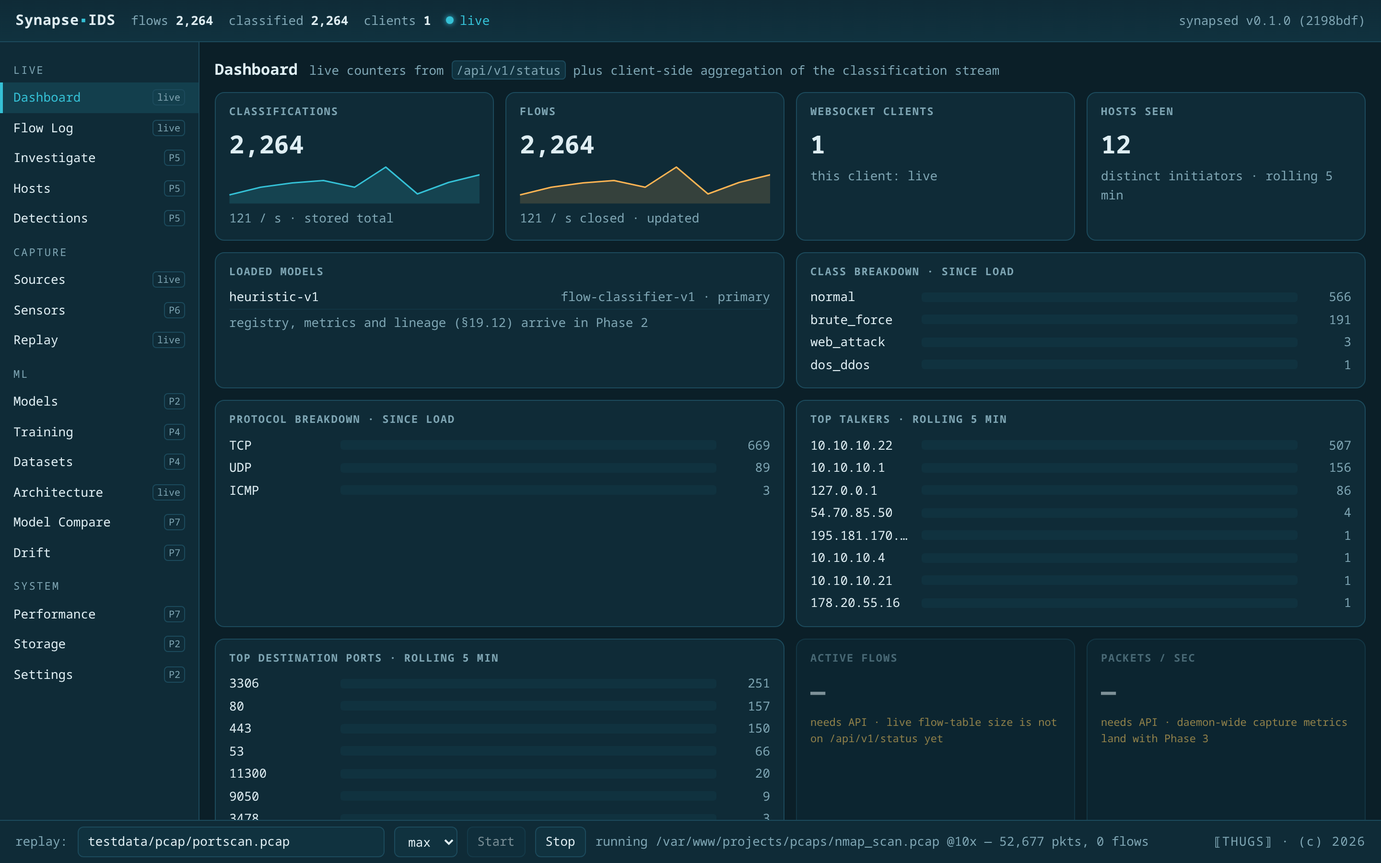
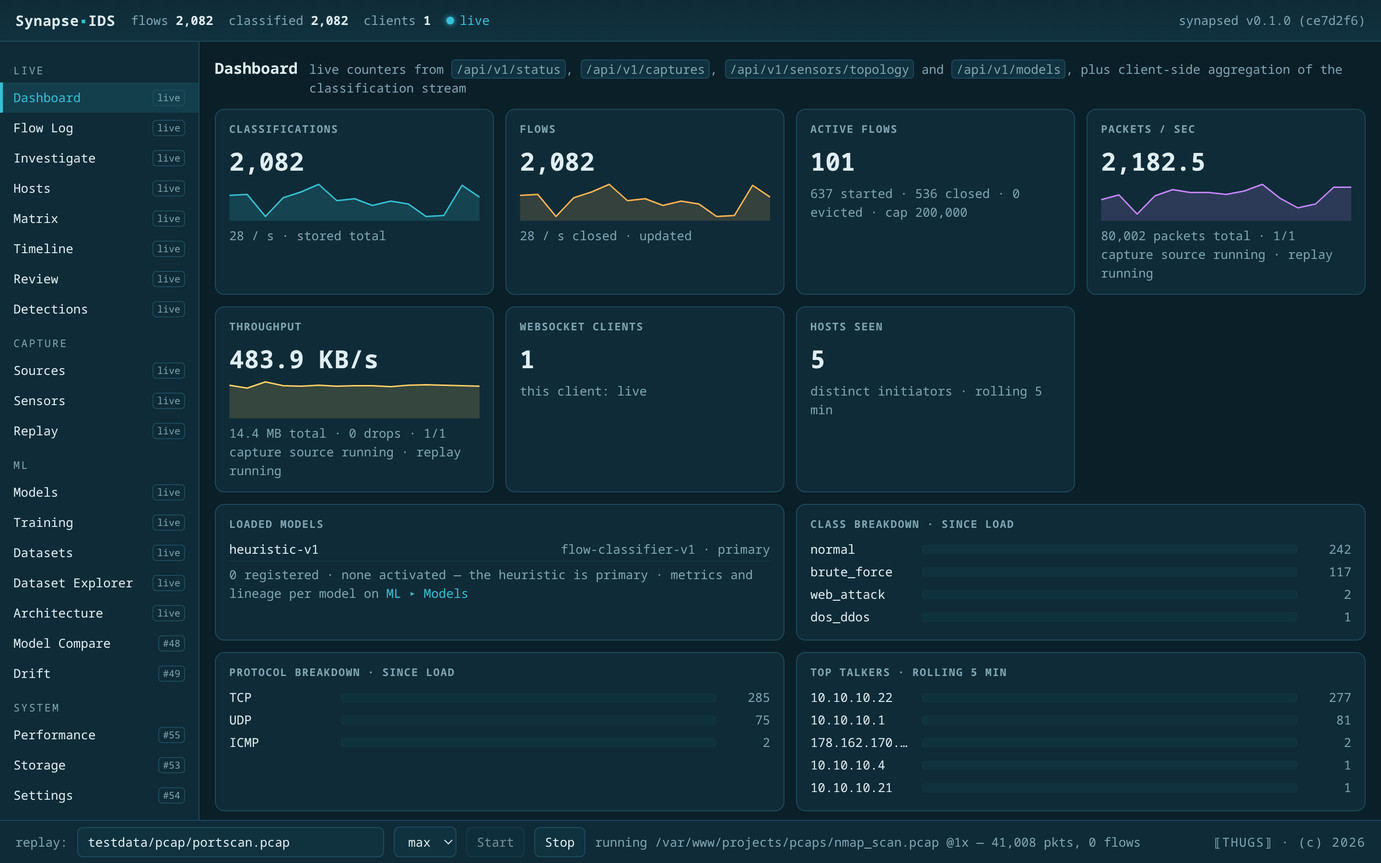
docs: Dashboard/Detections behaviour, CHANGELOG, and a real dashboard screenshot
CHANGELOG under [Unreleased]: the Detections view and the SPA test runner under
Added, the five rewired cards and the placeholder relabelling under Changed.

docs/architecture.md: StreamProvider's single 1 Hz allSettled over status +
captures + topology; the rate-derivation rules from lib/rates.ts; the Dashboard
ingest cards and why Throughput excludes a replay; how Detections degrades on a
404; and the two gap-table rows for Detections and the remaining §19 views, now
citing leaf issues instead of closed epics.

assets/screenshots/webui-dashboard.png is regenerated from a running daemon. The
old one is the exact artefact #118 describes — it shows "needs API · live
flow-table size is not on /api/v1/status yet", "daemon-wide capture metrics land
with Phase 3", "registry, metrics and lineage arrive in Phase 2" and P2/P4/P5/P6
sidebar tags. The new one shows Active flows 101, Packets/sec 2,182.5 and
Throughput 483.9 KB/s with a live tcpdump-kind capture source and a PCAP replay
both feeding the pipeline.

Its README gains two notes for whoever regenerates these next: the rate cards
need two consecutive real-time samples, so --virtual-time-budget cannot capture
them (it fast-forwards the page clock while the daemon's counters advance in real
time, collapsing every derived rate to ~0); and there is deliberately no
screenshot of Detections with detections in it, because the endpoint does not
exist yet and a fixture-fed image would be exactly the mockup that file promises
[…]

diff --git a/docs/architecture.md b/docs/architecture.md
@@ -286,15 +286,25 @@ feature.
 - **Source** is `web/ui/` (`src/**`, `package.json`, `package-lock.json`,
   `vite.config.ts`). `make web` runs `npm ci && npm run build`; `make web-dev`
   serves it with `/api` and `/api/v1/stream` proxied to `127.0.0.1:8080`;
-  `make web-check` is `tsc --noEmit`.
+  `make web-check` is `tsc --noEmit`; `make web-test` runs the SPA unit tests
+  under node's built-in runner (`web/ui/test/`, `web/ui/tsconfig.test.json`) —
+  no test framework is installed, only `@types/node`.
 - **Build output** is `web/dist/` — content-hashed JS/CSS plus `index.html`,
   **committed to the repo** and embedded by `web/web.go` (`//go:embed all:dist`).
   `go build`, `make build-linux` and CI never run Node. Rebuild and commit
   `web/dist/` after any `web/ui/` change.
 - **Routing is hash-based** (`/#/flow-log`): every document request stays on `/`,
   so `internal/api` needs no SPA-fallback route. A `StreamProvider` opens the one
-  WebSocket, polls `/api/v1/status` once a second, fans event batches to
-  subscribers, and keeps rolling client-side aggregates for the Dashboard.
+  WebSocket, polls `/api/v1/status`, `/api/v1/captures` and
+  `/api/v1/sensors/topology` once a second in a single `Promise.allSettled` so the
+  ingest counters are sampled in lock-step, fans event batches to subscribers, and
+  keeps rolling client-side aggregates for the Dashboard.
+- **Rates are derived, never assumed.** The capture/sensor/replay counters are
+  cumulative on the wire, so `lib/rates.ts` differentiates successive readings by
+  the *real* elapsed time between them — the same thing `capture.Manager.sample`
+  does server-side. One reading is not a rate (the card says "measuring…", not
+  0/s) and a counter moving backwards is a reset, not negative traffic
+  (issue #118, PROJECT.md §16).
 - **Wired views:** Dashboard, the full-screen Flow Log, the Flow Inspector
   (`GET /api/v1/flows/{id}` joined to `GET /api/v1/schemas/features`), Replay
   control, **CAPTURE ▸ Sources** (§19.14 — a 1 Hz poll of `GET /api/v1/captures`
@@ -330,14 +340,39 @@ feature.
   location and a sensor; the scope links appear **only** where the daemon says
   `flow_attribution: "records"`, and a raw-mode sensor gets a `counters only`
   affordance explaining why filtering to it would match nothing — see
-  [ADR 0026](adr/0026-traffic-matrix-and-sensor-topology.md)). Every other §19
-  route is a "Planned — Phase N" placeholder.
-- **Deliberately still a placeholder:** `#/detections`. There is no detections
-  store and nothing publishes `AlertCreated`, so the view is not half-built.
-- **Deliberately labelled Phase 7 stubs** on Hosts and Investigate: behavioural
+  [ADR 0026](adr/0026-traffic-matrix-and-sensor-topology.md)), and **LIVE ▸
+  Detections** (§19.1/§19.4, #117 — the deduplicated alert feed over
+  `GET /api/v1/detections` with server-side class / severity / min-confidence /
+  `since` filters, the occurrence `count` as its own column because one row can
+  stand for hundreds of probes, the first-seen → last-seen span, the per-model
+  outputs and the daemon's own `reason`, and click-through to the Flow Inspector
+  and to Investigate). Every other §19 route is a "Not built yet" placeholder
+  naming its **open** tracking issue.
+- **Dashboard ingest cards** (§19.1, #118): *Active flows* reads
+  `status.flow.active`; *Packets / sec* and *Throughput* are rates derived from
+  the cumulative `/api/v1/captures` + `/api/v1/sensors/topology` counters plus a
+  running replay's packet counter (§6 lists Replay as a capture source).
+  Throughput excludes the replay on purpose — `status.replay` has no byte counter,
+  so the card says so rather than multiplying packets by a guessed frame size.
+  *Sensor health* renders `/api/v1/sensors/topology`, distinguishing
+  `collector: false` ("off — no collector configured") from a collector with no
+  sensor connected. **A working endpoint with nothing to report is an idle state,
+  not a greyed "needs API".**
+- **Detections degrades honestly.** `GET /api/v1/detections` is landing
+  separately (#117); until it does, `client.getDetections` maps a 404 to
+  `state: 'unavailable'` and both the route and the Dashboard card say "not
+  available in this build", once, with no retry loop, no spinner and no console
+  error. The same code lights up unchanged when the endpoint appears; it is
+  verified against `web/ui/test/fixtures/detections.json`, a byte-for-byte
+  instance of the agreed contract.
+- **Deliberately labelled stubs** on Hosts and Investigate, each naming its open
+  issue (#47 anomaly model, #63 per-host baselines, #49 drift): behavioural
   baseline, anomaly trend/history and unusual-feature callouts. The API reports
   `baseline_available: false` / `anomaly_available: false` and the SPA says so
-  rather than inventing a baseline. A **downloadable report** carries the same
+  rather than inventing a baseline. No placeholder anywhere in the SPA cites a
+  development phase any more: a phase number goes stale the instant its epic
+  closes, which turned correct "this is missing" notices into apparent broken
+  promises (#118). A **downloadable report** carries the same
   statement as an explicit note, because a file read a week later has none of the
   UI's context (§19.4, [ADR 0023](adr/0023-downloadable-investigation-reports.md)).
 - **Report downloads:** Investigate has an HTML/JSON **Download report** control
@@ -439,9 +474,9 @@ tracked as an EPIC (issues exist; see PROJECT.md §26).
 | Anomaly / location / global / experimental model roles wired end to end | `internal/nn` runs ONNX MLPs; `inference.ONNXModel` adapts them to `Classifier`; `internal/model` loads and validates the five-file bundle; `internal/registry` records it with lineage; `POST /api/v1/models/{id}/activate` compiles it and swaps it into `inference.Runtime` as the single `RolePrimary`, `deactivate` restores `inference.Heuristic` (issues #24–#26; [ADR 0009](adr/0009-model-registry-lineage-and-explicit-activation.md)). Multi-model ensembles (a trained primary *and* a shadow/anomaly peer at once) are not wired yet — `Runtime.SetModels` is the seam. The offline `synapse-trainer` lives in `trainer/` ([ADR 0007](adr/0007-python-trainer-and-bundle-export.md)). | see EPIC: Phase 2 / 7 |
 | SQLite (then ClickHouse) persistence | `storage.Mem` bounded ring; `config` recognizes `driver: sqlite` but `validate()` rejects it as "not implemented yet" | see EPIC: Phase 2 (SQLite), Phase 8 (ClickHouse) |
 | ~~Distributed sensors — sensor topology (#46) and the traffic-matrix/topology views (#68)~~ | **Done (#46, #68, [ADR 0026](adr/0026-traffic-matrix-and-sensor-topology.md)) — these were the last open children of EPIC Phase 5 and Phase 6.** `GET /api/v1/sensors/topology` groups the connected sensors by the location each one reported, with per-location aggregates (sensor/running count, summed pps/bps/packets/bytes/drops/records, modes in use, newest `last_packet`) and a `down`/`degraded`/`ok` health verdict; sensors reporting no location land in an explicit `unassigned` bucket, sorted last, and **no location is invented for them**. `GET /api/v1/matrix` is the who-talks-to-whom matrix: per ordered `(initiator, responder)` pair the flow count, byte volume and class mix, plus `threat_class` (the highest-count non-`normal` class) so an attack pair is visible even when `normal` dominates it. It is a **bounded top-N of 4096 pairs, not a hosts × hosts grid** — 2048 hosts permits ~4.2 M pairs — and reports `partial` / `truncated` / `pairs_evicted` / `source` so a client cannot mistake it for complete. **The scoping interaction (§19.15) is wired only where it is real:** `sensor=` / `location=` join the shared `classFilters` dialect on `/flows`, `/classifications`, `/hosts/{ip}/*`, `/review/queue`, `/reports/*` and `/matrix`, and they match `Classification.Sensor` — which holds a genuine sensor id for `flow`/`feature`-mode sensors but the literal `"local"` for raw-mode ones, whose packets merge into one channel and one flow table before a flow record exists. So the topology response marks every sensor's `flow_attribution` (`records` \| `none`) and the SPA offers the scope links only where they work; an unresolvable `location=` is a `400`, never a silently empty `200`. Real sensor attribution for raw mode needs sensor identity on `packet.Packet` **and** in `flow.Key` (otherwise two sensors' identical 5-tuples merge into one flow) — a data-plane change, deliberately deferred. `#/sensors` and `#/matrix` (canvas heat grid + pair list, click-through to Investigate) replace the Phase-6 placeholder. Prior work this builds on: **sensor modes (#45, [ADR 0024](adr/0024-sensor-modes-and-synpoip-record-frames.md))**: `synapse-sensor --mode raw\|flow\|feature`. `raw` is unchanged; `flow` runs the flow engine on the sensor and ships `flow-record-v1` records (`0x04`), `feature` also runs feature extraction and ships only the 48 `flow-features-v1` values (`0x05`) — **no packet content crosses the wire**. Each mode joins the daemon's pipeline further along (flow table → feature extraction → inference), on the same single goroutine, and remote flow ids are remapped through the daemon's shared `IDGen` with the sensor's kept as `sensor_flow_id`. SYNPOIP **v2** negotiates it: the fixed hello `version` stays `1` and the ceiling rides as `max_version` in the hello metadata, so v1 peers are unaffected byte for byte, and a `flow`/`feature` sensor talking to a v1 daemon is refused with the typed `0x06 mode-unsupported` rather than silently downgraded. Payloads are schema-bound in the accept and refused on mismatch (§28.5-6). Measured on a 68 814-packet / 1 176-flow capture: `flow` is ~1.4 % and `feature` ~1.8 % of `raw` on the wire, and all three modes produce identical classifications. `synapse-sensor pcap-over-ip` serves a capture file **or a live NIC** (`--iface`) over the framed, authenticated SYNPOIP transport ([ADR 0012](adr/0012-pcap-over-ip-transport.md)), on Linux (`AF_PACKET`) and FreeBSD (`/dev/bpf`), either listening (`--listen`) or **dialling the daemon** (`--connect`) with reconnect + backoff. `synapsed` now ships the other half: a `capture.collector` config block stands up a TLS listener (`capture.Collector`) that accepts sensors, registers one `Manager` source per peer (`kind: "pcap-over-ip-listen"`), publishes `SensorConnected` / `SensorDisconnected`, and serves `GET /api/v1/sensors[/{id}]` — bounded by `max_sensors`, authenticated by the presented bearer token plus optional mTLS, and gated on `authorized: true`. The SYNPOIP roles and wire format are **unchanged** (PROTOCOL.md §6); sensor identity (id, location, agent version, `os/arch`) rides in the accept's `session_id`. [ADR 0018](adr/0018-daemon-side-synpoip-collector-and-sensor-identity.md). The OPNsense plugin (`contrib/opnsense/`, [ADR 0014](adr/0014-freebsd-bpf-capture-and-the-opnsense-sensor-plugin.md), [docs](opnsense-sensor.md)) packages the sensor as an `os-synapseids-sensor` FreeBSD `.pkg` with a **Services → SynapseIDS Sensor** UI — **untested on hardware.** Still open: per-sensor tokens, the collector's rejection counters on `/api/v1/status`, record modes on the dialled (`--listen`) posture, record batching, and raw-mode sensor attribution (above). | #43, #103, #45, **#46, #68 closed** — EPIC Phase 5 and Phase 6 have no open children left |
-| The rest of the §19 UI — Detections, Model compare, Drift, Performance, Storage, Settings | React SPA (`web/ui/`, built into the embedded `web/dist/`) with the Dashboard, Flow Log, Flow Inspector, Replay control, Capture Sources, the Architecture builder, the Model **registry** (§19.12), the Dataset **Manager** (§19.10), the Dataset **Explorer** (§19.11), the **Training dashboard** (§19.8, polls `/api/v1/training/{id}`), **Hosts, Investigate, Timeline and Review**, and now the **traffic Matrix** (§19.4-5, #68) and **Sensors topology** (§19.15, #46) wired; every other route is a "Planned — Phase N" placeholder | see EPIC: Phase 2 / 7 (per view) |
-| Detections — an `/api/v1/detections` resource, an alert store, anything publishing `AlertCreated` | Nothing. `#/detections` stays a "Planned — Phase 5" placeholder rather than being half-built on a concept that does not exist | see EPIC: Phase 5 (#42) |
-| Behavioural baselines, anomaly trend/history, unusual-feature callouts on a host (§19.4-6) | Host profiles and the classification timeline are real; the baseline/anomaly fields exist and are reported as `baseline_available: false` / `anomaly_available: false` rather than fabricated ([ADR 0016](adr/0016-host-and-time-aggregation-for-investigation.md)) | see EPIC: Phase 7 |
+| The rest of the §19 UI — Model compare, Drift, Performance, Storage, Settings | React SPA (`web/ui/`, built into the embedded `web/dist/`) with the Dashboard, Flow Log, Flow Inspector, Replay control, Capture Sources, the Architecture builder, the Model **registry** (§19.12), the Dataset **Manager** (§19.10), the Dataset **Explorer** (§19.11), the **Training dashboard** (§19.8, polls `/api/v1/training/{id}`), **Hosts, Investigate, Timeline and Review**, the **traffic Matrix** (§19.4-5, #68), **Sensors topology** (§19.15, #46) and **Detections** (§19.1/§19.4, #117) wired; every other route is a "Not built yet" placeholder naming its open issue | #48 (compare), #49 (drift), #55 (performance), #53 (storage), #54/#59 (settings) |
+| Detections — the `/api/v1/detections` resource, an alert store, anything publishing `AlertCreated` | The **SPA half is done** (#118): `LIVE ▸ Detections` and the Dashboard's *Recent detections* card are built against the fixed response contract and unit-tested against `web/ui/test/fixtures/detections.json`. Nothing server-side emits `AlertCreated` yet, so on this build the endpoint 404s and both surfaces render "not available in this build" — a state, not an error, and not a spinner. They light up with no further SPA change once the endpoint lands | #117 |
+| Behavioural baselines, anomaly trend/history, unusual-feature callouts on a host (§19.4-6) | Host profiles and the classification timeline are real; the baseline/anomaly fields exist and are reported as `baseline_available: false` / `anomaly_available: false` rather than fabricated ([ADR 0016](adr/0016-host-and-time-aggregation-for-investigation.md)) | #47 (anomaly model), #63 (per-host baselines) under EPIC: Phase 7 (#7) |
 | **Phase 4** — the human review loop, train/val/test planning in the UI, | The **dataset manager** is done: `internal/dataset` materialises versioned, immutable, content-hashed datasets from stored classifications, `/api/v1/datasets*` exposes them, and `ML ▸ Datasets` drives it ([ADR 0015](adr/0015-versioned-datasets-on-disk.md), issue #33). **Training recipes** with multi-dataset weighting are done in `trainer/` ([ADR 0017](adr/0017-multi-dataset-training-mixtures.md), issue #34). The **live training dashboard** is done: `internal/training` mirrors external `synapse-trainer` runs reported over HTTP, `/api/v1/training*` exposes them, and `ML ▸ Training` polls and renders loss curves / per-class metrics / the confusion matrix ([ADR 0019](adr/0019-external-training-runs-reported-over-http.md), issue #35). The **Dataset Explorer** (§19.11) is done too — `GET /api/v1/datasets/{ref}/stats` and `ML ▸ Dataset Explorer` give feature distributions, the 48×48 correlation matrix, protocol/port splits, outliers and a stdlib-only PCA projection ([ADR 0020](adr/0020-dataset-explorer-and-in-tree-pca.md), issues #37/#67; UMAP deferred). Splitting is reproducible but happens **in the trainer** (`synapse_trainer.mixture` / `Dataset.split`), not here. Because there is no review loop, every dataset's `labeling_source` is `model_prediction:<ids>` — the daemon's own predictions, never presented as ground truth. | issue #42 (review), #36 (activation workflow), rest of EPIC: Phase 4 |
 | ~~The human review loop and curated datasets~~ | **Done (#42, #64).** `internal/review` stores the five §16 states per flow with the model's original prediction preserved *structurally* alongside the human label; `/api/v1/review*` serves the ranked queue (margin-based uncertainty for active learning, plus disagreement and recency), the review records and the write route; `LIVE ▸ Review` drives it and hands a prefilled `reviewed` selection to `ML ▸ Datasets`, which can now write `labeling_source: human_review`. Every write is audited and publishes `ReviewUpdated`. See [ADR 0021](adr/0021-human-review-loop-and-curated-datasets.md). Reviews are deliberately uncapped, and a flow whose verdict has aged out of the bounded ring can no longer be reviewed. | EPIC: Phase 5 — #42 and #64 **closed** |
 | ~~The Flow Inspector's normalized inputs, snapshot history and explanation panel~~ | **Done (#38).** `GET /api/v1/flows/{id}/explain` reports, per model that actually scored the flow, what it received — `kind: raw` for the `Heuristic` (which reads raw values, stated in words rather than shown as an identity table) or `kind: normalized` with raw→normalized pairs resolved from the **active** registry entry's own `normalizer.json` (cached per `<model id>@<content hash>`). The **explanation** is exact for the heuristic: the `FiredRule` list names each rule that matched and the feature values its condition compared, plus the real pre-softmax `class_weights`; an empty list is reported as "no rule fired, the standing `normal` prior decided this" rather than as an empty panel. For a trained ONNX model it is `kind: unavailable` — no gradients, no SHAP, and deliberately **no linear proxy**. `GET /api/v1/flows/{id}/snapshots` serves the retained version history (`storage.FlowHistory`), each version paired with the verdict computed from it by an exact `TS`↔`LastSeen` join. **No baseline column and no anomaly number**: both are `{available: false, note}` with no value field, and a test asserts the raw JSON carries nothing else. See [ADR 0025](adr/0025-flow-inspector-explanation-and-snapshots.md). | EPIC: Phase 5 — #38 **closed** |

diff --git a/CHANGELOG.md b/CHANGELOG.md
@@ -9,6 +9,30 @@ and this project adheres to [Semantic Versioning](https://semver.org/spec/v2.0.0
 
 ### Added
 
+- **LIVE ▸ Detections — the deduplicated alert feed** (SPA half of issue #117,
+  built as part of #118). A real filterable view where `#/detections` used to be a
+  placeholder: severity, class, occurrence **count**, the 5-tuple, confidence,
+  first-seen → last-seen, the daemon's `reason`, the per-model outputs and the
+  disagreement flag, with click-through to the Flow Inspector and to Investigate.
+  Class, severity, minimum confidence and a `since` window are applied by the
+  daemon; the control bar and the "showing N / M" idiom are the Flow Log's.
+  - **`count` is its own column, and loud.** A deduplicated detection standing for
+    412 scanned ports and one standing for a single probe would otherwise render
+    identically, which understates the first and overstates the second.
+  - **It degrades honestly.** `GET /api/v1/detections` does not exist on this
+    build, and a 404 is mapped to a *state* — "not available in this build",
+    naming #117 — not to an error banner, not to a spinner that never resolves,
+    and not to a console error. The same is true of the Dashboard's *Recent
+    detections* card. An endpoint that answers with an empty feed is a
+    deliberately different, equally honest render. The code lights up with no
+    further change once the endpoint lands.
+  - Verified without the backend against `web/ui/test/fixtures/detections.json`,
+    a byte-for-byte instance of the agreed response contract.
+- **SPA unit tests** — `npm test` / `make web-test`, using node's built-in test
+  runner over the framework-free modules (`web/ui/test/`,
+  `web/ui/tsconfig.test.json`). No test framework was added; the only new
+  dependency is `@types/node`, which ships types and no runtime code.
+
 - **Traffic matrix and sensor topology** (issues #68 and #46 — **the last two open
   children of EPIC Phase 5 and EPIC Phase 6**;
   [ADR 0026](docs/adr/0026-traffic-matrix-and-sensor-topology.md)). Two
@@ -143,6 +167,47 @@ and this project adheres to [Semantic Versioning](https://semver.org/spec/v2.0.0
     the drawer was already dense, while the fired rules stay open. "No rule fired"
     is boxed as a finding rather than left as dim text that reads like a failed
     load. Own commented blocks at the end of `types.ts` and `styles.css`.
+
+### Changed
+
+- **Dashboard cards that claimed "needs API" for endpoints that already exist are
+  wired** (issue #118). Five cards were greyed out and citing development phases
+  that had since closed, so correct "not built yet" notices read as broken
+  promises while real data sat one fetch away.
+  - **Active flows** → `status.flow.active`, with started / closed / evicted and
+    the flow-table cap beneath it.
+  - **Packets / sec** and **Throughput** → rates derived from the cumulative
+    counters on `/api/v1/captures` and `/api/v1/sensors/topology`, plus a running
+    replay's packet counter (PROJECT.md §6 lists Replay as a capture source), each
+    with a uPlot sparkline built the same way the classifications/sec card's is.
+    `lib/rates.ts` divides the delta by the **real** elapsed time between
+    readings, the way `capture.Manager.sample` does server-side: one reading is
+    not a rate (the card says "measuring…"), and a counter moving backwards is a
+    reset rather than negative traffic. Throughput deliberately **excludes** the
+    replay, because `status.replay` carries no byte counter — the card says so
+    instead of multiplying packets by a guessed frame size (§16).
+  - **Sensor health** → `/api/v1/sensors/topology`, distinguishing
+    `collector: false` ("off — no collector configured") from a collector with
+    nobody connected, and listing each location's health, running count and
+    pps/bps.
+  - **Loaded models** footer → `/api/v1/models`: registered count, the active
+    model, and a pointer to ML ▸ Models for per-model metrics and lineage.
+  - **A working endpoint with nothing to show is an idle state, not a greyed
+    "needs API".** The three cases — no endpoint, endpoint broken, endpoint fine
+    but idle — now look different.
+- **No placeholder in the SPA cites a development phase any more** (issue #118).
+  Every "not built yet" notice names the **open** issue tracking it, which stays
+  checkable after an epic closes: Storage #53, Settings #54/#59, Model Comparison
+  #48, Drift #49, System Performance #55, the anomaly stubs on Flow Inspector /
+  Timeline / Hosts / Investigate #47, per-host baselines #63. The sidebar tag for
+  a stub is now its issue number rather than `P{n}`. Phase framing is kept only
+  where it is still accurate — EPIC: Phase 7 (#7) is open, so Model Comparison and
+  Drift still name it *alongside* their leaf issues. The gaps themselves stay:
+  §16 makes a labelled gap correct and a fabricated number a defect.
+- **`StreamProvider` polls `/api/v1/status`, `/api/v1/captures` and
+  `/api/v1/sensors/topology` in one 1 Hz `Promise.allSettled`**, so the ingest
+  counters behind the two rate cards are sampled in lock-step and one broken
+  endpoint cannot blank the others.
 
 ### Fixed
 

diff --git a/assets/screenshots/README.md b/assets/screenshots/README.md
@@ -9,7 +9,7 @@ Regenerate them after a UI change; see [How these were made](#how-these-were-mad
 
 | | |
 |---|---|
-| [`webui-dashboard.png`](webui-dashboard.png) | **LIVE ▸ Dashboard** (§19.1) — live counters from `/api/v1/status`, uPlot classifications/sec and flow-event/sec sparklines, class and protocol breakdowns, rolling top talkers and destination ports. Cards with no data source yet are greyed and marked *needs API*. |
+| [`webui-dashboard.png`](webui-dashboard.png) | **LIVE ▸ Dashboard** (§19.1) — live counters from `/api/v1/status`, `/api/v1/captures`, `/api/v1/sensors/topology` and `/api/v1/models`. uPlot sparklines for classifications/sec, flow-events/sec, **packets/sec and throughput** — the last two derived from the cumulative capture/sensor/replay counters, since the API reports totals, not rates. **Active flows** is the live flow-table size. Class and protocol breakdowns, rolling top talkers and destination ports. The shot is taken with a live `tcpdump`-kind capture source *and* a PCAP replay both feeding the pipeline, which is why every ingest number is non-zero. The two cards that are still greyed (anomaly rate, inference latency) name the **open issue** that tracks them — #47 and #55 — rather than a development phase (issue #118). |
 | [`webui-flow-log.png`](webui-flow-log.png) | **LIVE ▸ Flow Log** (§19.2) — the primary product view. Rows append live off the WebSocket; pause/resume buffers instead of dropping, plus density, max-rows, class / min-confidence / protocol / text filters and a kiosk toggle. |
 | [`webui-flow-log-brute-force.png`](webui-flow-log-brute-force.png) | Flow Log filtered to `brute_force` — a real MySQL credential-stuffing run against `10.10.10.21:3306`, picked out of ordinary browsing traffic. |
 | [`webui-flow-log-scan.png`](webui-flow-log-scan.png) | Flow Log filtered to `scan` while a port-scan capture replays. |
@@ -55,3 +55,17 @@ deliberately dependency-free (§28.16). To redo them:
 Note that several views only look interesting while data is flowing: the Flow Log
 keeps a bounded window of recent rows in the browser, so a class filter finds
 nothing unless traffic of that class is streaming at the time.
+
+The Dashboard's packets/sec and throughput cards need **two consecutive samples**
+before they can show a rate at all — one cumulative reading is not a rate, and the
+card says "measuring…" until it has both. `--virtual-time-budget` therefore does
+*not* work for this view: it fast-forwards the page's clock while the daemon's
+counters advance in real time, so every derived rate collapses to ~0. Give the
+page real seconds instead — e.g. load a wrapper page whose own `load` event is
+blocked by a deliberately slow subresource, and iframe the dashboard inside it.
+
+There is deliberately **no screenshot of `#/detections` with detections in it.**
+`GET /api/v1/detections` does not exist yet (issue #117), and everything in this
+directory is real daemon output — a fixture-fed screenshot would be exactly the
+mockup this file promises not to contain. The view's own honest render on this
+build is the sentence "not available in this build".

diff --git a/README.md b/README.md
@@ -28,7 +28,7 @@
 >
 > **Working now:** PCAP replay → the flow engine → the frozen `flow-features-v1` vector (48 features) → a transparent rule-based classifier → the `/api/v1` REST surface → a React operator console at `/` (Dashboard, full-screen Flow Log, Flow Inspector, Hosts, Investigate, Timeline, Replay control) fed by a live WebSocket. Replay runs the *exact* pipeline live capture will.
 >
-> **Not here yet:** live NIC / tcpdump / SSH capture, trained ONNX models wired into the daemon, SQLite persistence (storage is in-memory only), and the sensor-topology view (a `synapse-sensor` agent **does** work, in both directions and in all three `raw` / `flow` / `feature` modes — see [ADR 0018](docs/adr/0018-daemon-side-synpoip-collector-and-sensor-identity.md) and [ADR 0024](docs/adr/0024-sensor-modes-and-synpoip-record-frames.md)), and the rest of the [§19](PROJECT.md) UI beyond the four Phase-1 views (every other route in the SPA is a "Planned — Phase N" placeholder). The offline Python trainer that produces model bundles now lives in [`trainer/`](trainer/) (Phase 2, not yet wired to the daemon). See [the roadmap](#roadmap).
+> **Not here yet:** live NIC / tcpdump / SSH capture, trained ONNX models wired into the daemon, SQLite persistence (storage is in-memory only), and the sensor-topology view (a `synapse-sensor` agent **does** work, in both directions and in all three `raw` / `flow` / `feature` modes — see [ADR 0018](docs/adr/0018-daemon-side-synpoip-collector-and-sensor-identity.md) and [ADR 0024](docs/adr/0024-sensor-modes-and-synpoip-record-frames.md)), and the rest of the [§19](PROJECT.md) UI beyond the four Phase-1 views (every route in the SPA that is not built renders a "Not built yet" panel naming the **open** issue that tracks it — never a development phase, which goes stale the moment its epic closes). The offline Python trainer that produces model bundles now lives in [`trainer/`](trainer/) (Phase 2, not yet wired to the daemon). See [the roadmap](#roadmap).
 
 <br/>
 
